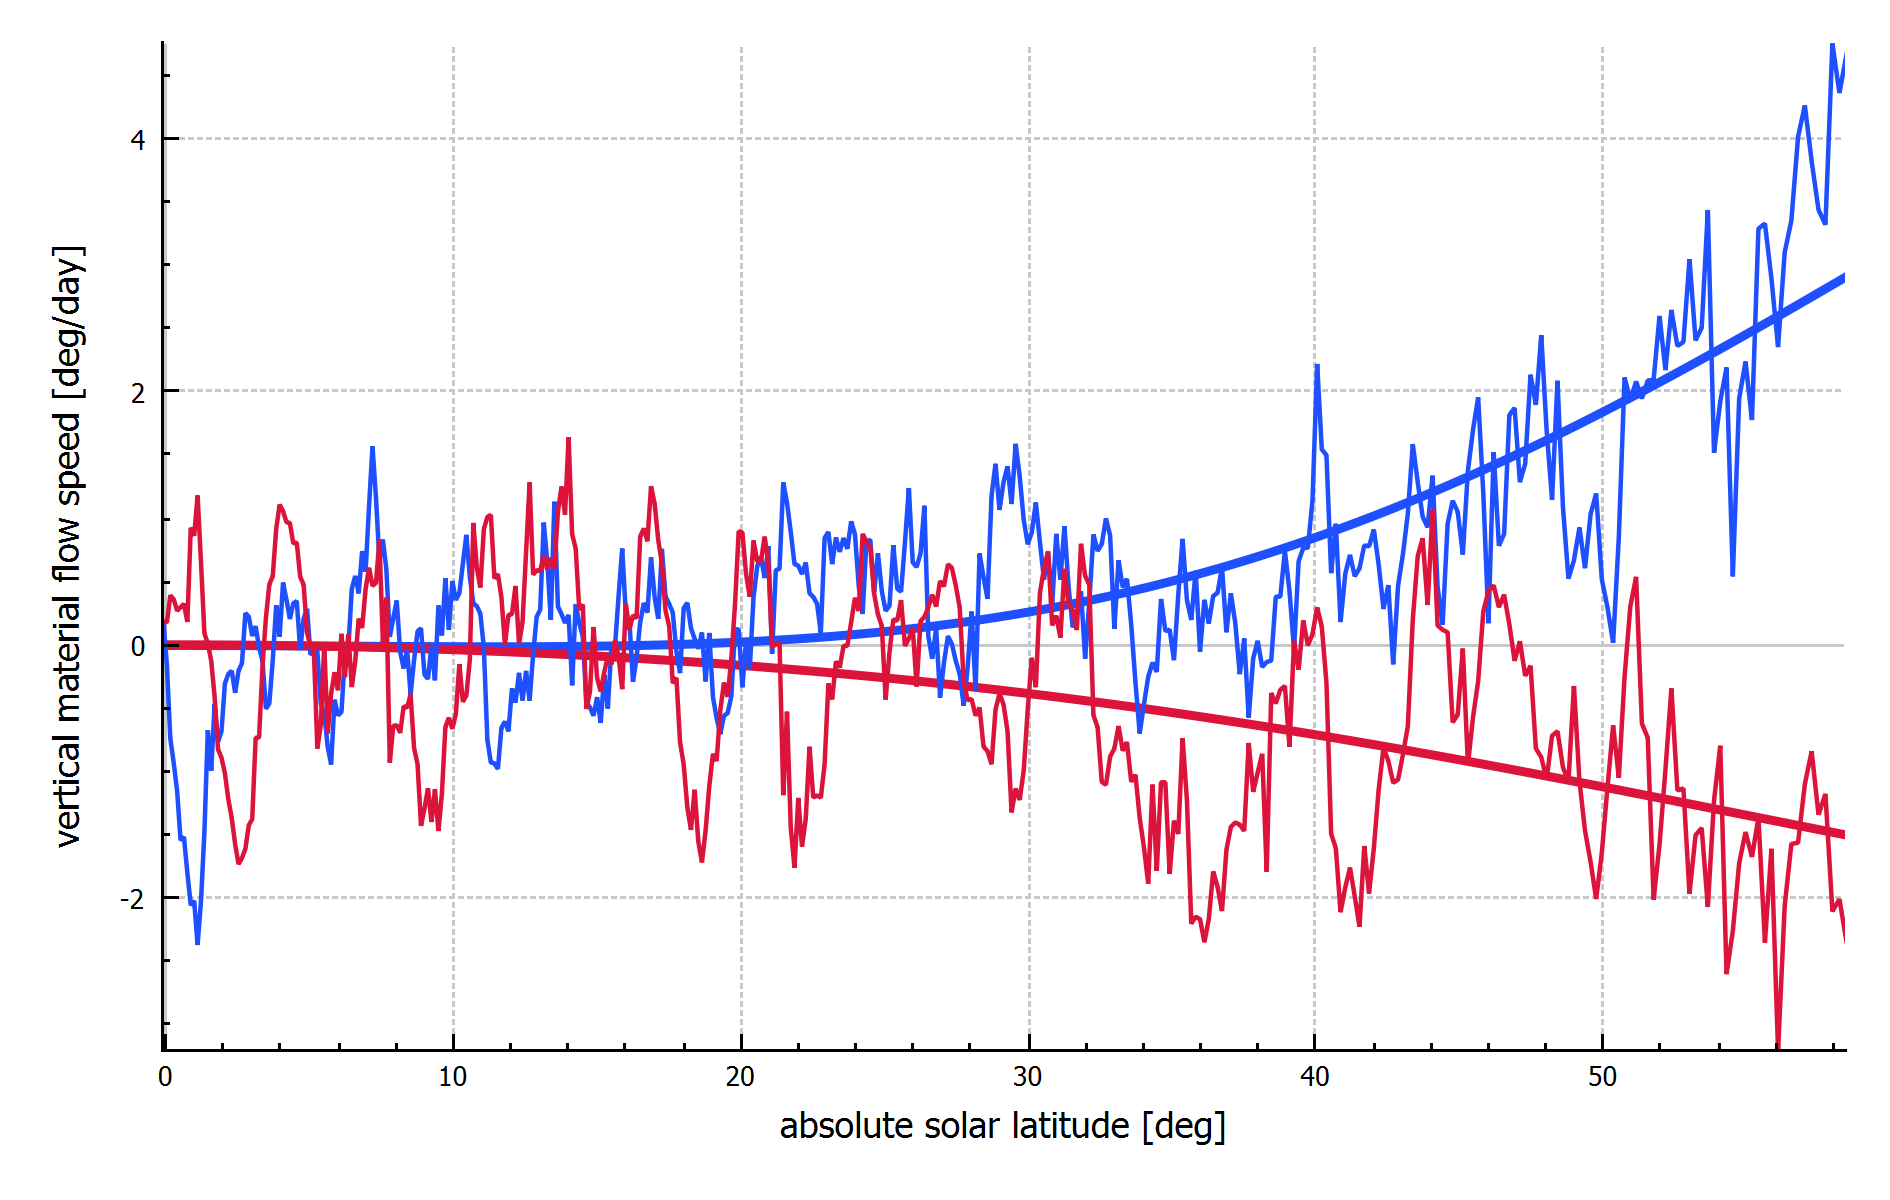
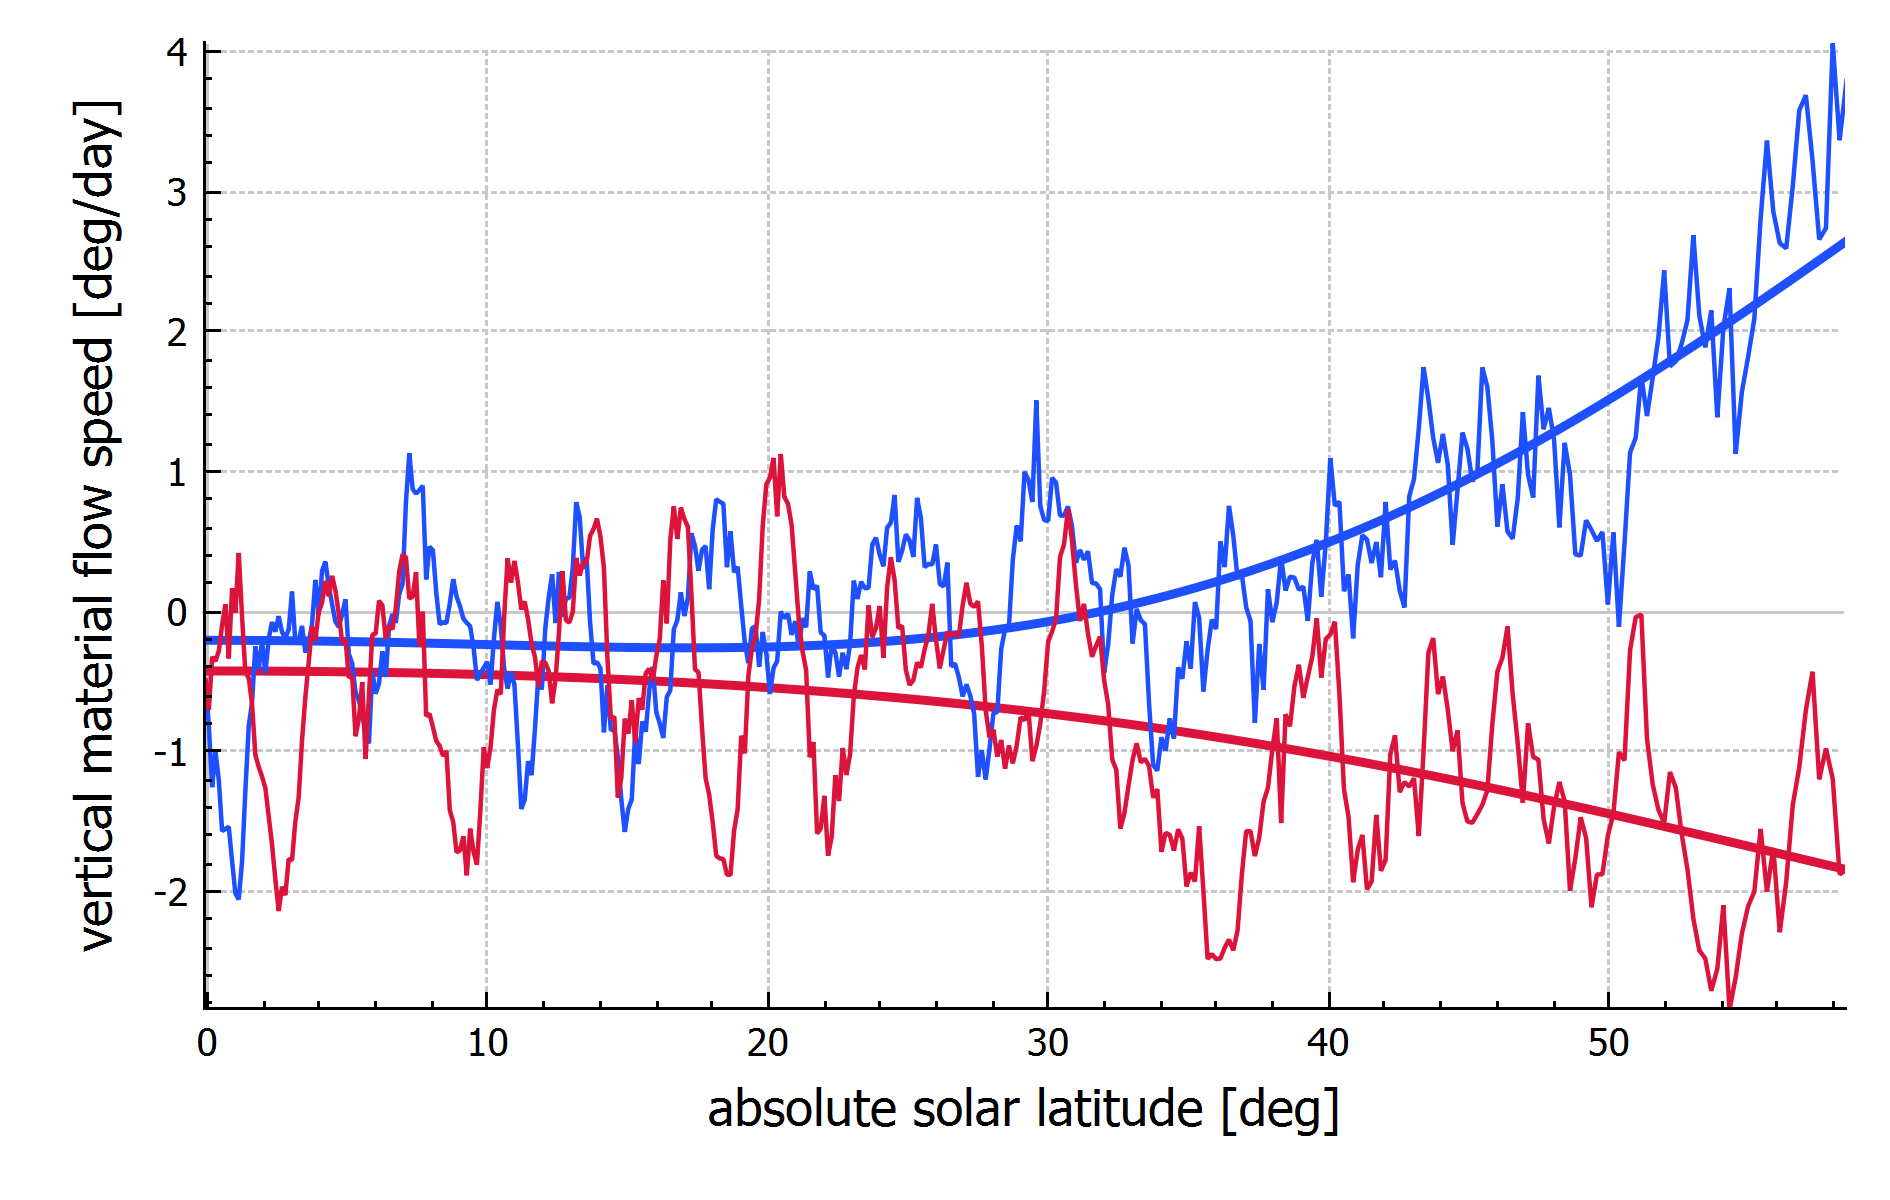
colors & fonts

diff --git a/Zdeny_PhD_Shenanigans/Astrophysics/diffrotResults.h b/Zdeny_PhD_Shenanigans/Astrophysics/diffrotResults.h
@@ -29,28 +29,24 @@ public:
 		// ======================================================== PLOTS ========================================================
 
 		// diffrot profiles
-		Plot1D::plot( SourceThetasavg, std::vector<std::vector<double>> {polyfit( SourceThetasavg, SourceOmegasXavg, 2 ), SourceOmegasXavg, PredicXs[0], PredicXs[1]}, "diffrot profile X", "solar latitude [deg]", "horizontal material flow speed [deg/day]", std::vector<std::string> {"polyfit2", "average", "Derek A. Lamb (2017)", "Howard et al. (1983)"}, std::vector<QPen> { QPen( Plot::red, 3 ), QPen( Plot::blue, 1.5 ), QPen( Plot::orange, 2 ), QPen( Plot::magenta, 2 )}, saveDir + "1DXs" + to_string( SourceStride ) + ".png" );
-		Plot1D::plot( SourceThetasavg, std::vector<std::vector<double>> {polyfit( SourceThetasavg, SourceOmegasYavg, 3 ), SourceOmegasYavg }, "diffrot profile Y", "solar latitude [deg]", "vertical material flow speed [deg/day]", std::vector<std::string> {"polyfit3", "average" }, std::vector<QPen> { QPen( Plot::red, 3 ), QPen( Plot::blue, 1.5 )}, saveDir + "1DYs" + to_string( SourceStride ) + ".png" ); //rgb(119, 136, 153)
+		Plot1D::plot( SourceThetasavg, std::vector<std::vector<double>> {polyfit( SourceThetasavg, SourceOmegasXavg, 2 ), SourceOmegasXavg, PredicXs[0], PredicXs[1]}, "diffrot profile X", "solar latitude [deg]", "horizontal material flow speed [deg/day]", std::vector<std::string> {"polyfit2", "average", "Derek A. Lamb (2017)", "Howard et al. (1983)"}, std::vector<QPen> { QPen( Plot::black, 3 ), QPen( Plot::green, 1.5 ), QPen( Plot::blue, 2 ), QPen( Plot::red, 2 )}, saveDir + "1DXs" + to_string( SourceStride ) + ".png" );
+		Plot1D::plot( SourceThetasavg, std::vector<std::vector<double>> {polyfit( SourceThetasavg, SourceOmegasYavg, 3 ), SourceOmegasYavg }, "diffrot profile Y", "solar latitude [deg]", "vertical material flow speed [deg/day]", std::vector<std::string> {"polyfit3", "average" }, std::vector<QPen> { QPen( Plot::black, 3 ), QPen( Plot::green, 1.5 )}, saveDir + "1DYs" + to_string( SourceStride ) + ".png" ); //rgb(119, 136, 153)
 
 		// diffrot profiles NS
-		Plot1D::plot( ThetasNS, std::vector<std::vector<double>> {sin2sin4fit( toRadians( ThetasNS ), OmegasXavgN ), sin2sin4fit( toRadians( ThetasNS ), OmegasXavgS ), OmegasXavgN, OmegasXavgS, PredicXsNS[0], PredicXsNS[1]}, "diffrot profile NS X", "absolute solar latitude [deg]", "horizontal material flow speed [deg/day]", std::vector<std::string> {"trigfit North", "trigfit South", "average North", "average South", "Derek A. Lamb (2017)", "Howard et al. (1983)" }, std::vector<QPen> { QPen( Plot::blue, 3 ), QPen( Plot::black, 3 ), QPen( Plot::blue, 1.5 ), QPen( Plot::black, 1.5 ), QPen( Plot::orange, 2 ), QPen( Plot::magenta, 2 )}, saveDir + "1DNSXs" + to_string( SourceStride ) + ".png" );
-		Plot1D::plot( ThetasNS, std::vector<std::vector<double>> {sin2sin4fit( toRadians( ThetasNS ), OmegasYavgN ), sin2sin4fit( toRadians( ThetasNS ), OmegasYavgS ), OmegasYavgN, OmegasYavgS}, "diffrot profile NS Y", "absolute solar latitude [deg]", "vertical material flow speed [deg/day]", std::vector<std::string> {"trigfit North", "trigfit South", "average North", "average South" }, std::vector<QPen> { QPen( Plot::blue, 3 ), QPen( Plot::black, 3 ), QPen( Plot::blue, 1.5 ), QPen( Plot::black, 1.5 )}, saveDir + "1DNSYs" + to_string( SourceStride ) + ".png" );
-
-		// diffrot profiles NS cut
-		Plot1D::plot( ThetasNScut, std::vector<std::vector<double>> {sin2sin4fit( toRadians( ThetasNScut ), OmegasXavgNcut ), sin2sin4fit( toRadians( ThetasNScut ), OmegasXavgScut ), OmegasXavgNcut, OmegasXavgScut, PredicXsNScut[0], PredicXsNScut[1]}, "diffrot profile NS cut X", "absolute solar latitude [deg]", "horizontal material flow speed [deg/day]", std::vector<std::string> {"trigfit North", "trigfit South", "average North", "average South", "Derek A. Lamb (2017)", "Howard et al. (1983)" }, std::vector<QPen> { QPen( Plot::blue, 3 ), QPen( Plot::black, 3 ), QPen( Plot::blue, 1.5 ), QPen( Plot::black, 1.5 ), QPen( Plot::orange, 2 ), QPen( Plot::magenta, 2 )}, saveDir + "1DNScXs" + to_string( SourceStride ) + ".png" );
-		Plot1D::plot( ThetasNScut, std::vector<std::vector<double>> {sin2sin4fit( toRadians( ThetasNScut ), OmegasYavgNcut ), sin2sin4fit( toRadians( ThetasNScut ), OmegasYavgScut ), OmegasYavgNcut, OmegasYavgScut}, "diffrot profile NS cut Y", "absolute solar latitude [deg]", "absolute vertical material flow speed [deg/day]", std::vector<std::string> {"trigfit North", "trigfit South", "average North", "average South" }, std::vector<QPen> { QPen( Plot::blue, 3 ), QPen( Plot::black, 3 ), QPen( Plot::blue, 1.5 ), QPen( Plot::black, 1.5 )}, saveDir + "1DNScYs" + to_string( SourceStride ) + ".png" );
+		Plot1D::plot( ThetasNS, std::vector<std::vector<double>> {sin2sin4fit( toRadians( ThetasNS ), OmegasXavgN ), sin2sin4fit( toRadians( ThetasNS ), OmegasXavgS ), OmegasXavgN, OmegasXavgS, PredicXsNS[0], PredicXsNS[1]}, "diffrot profile NS X", "absolute solar latitude [deg]", "horizontal material flow speed [deg/day]", std::vector<std::string> {"trigfit North", "trigfit South", "average North", "average South", "Derek A. Lamb (2017)", "Howard et al. (1983)" }, std::vector<QPen> { QPen( Plot::blue, 3 ), QPen( Plot::red, 3 ), QPen( Plot::blue, 1.5 ), QPen( Plot::red, 1.5 ), QPen( Plot::green, 2 ), QPen( Plot::black, 2 )}, saveDir + "1DNSXs" + to_string( SourceStride ) + ".png" );
+		Plot1D::plot( ThetasNS, std::vector<std::vector<double>> {sin2sin4fit( toRadians( ThetasNS ), OmegasYavgN ), sin2sin4fit( toRadians( ThetasNS ), OmegasYavgS ), OmegasYavgN, OmegasYavgS}, "diffrot profile NS Y", "absolute solar latitude [deg]", "vertical material flow speed [deg/day]", std::vector<std::string> {"trigfit North", "trigfit South", "average North", "average South" }, std::vector<QPen> { QPen( Plot::blue, 3 ), QPen( Plot::red, 3 ), QPen( Plot::blue, 1.5 ), QPen( Plot::red, 1.5 )}, saveDir + "1DNSYs" + to_string( SourceStride ) + ".png" );
 
 		// shifts profiles
-		Plot1D::plot( SourceThetasavg, std::vector<std::vector<double>> {polyfit( SourceThetasavg, SourceShiftsXavg, 2 ), SourceShiftsXavg, ShiftsXErrorsBot, ShiftsXErrorsTop}, "shifts profile X", "solar latitude [deg]", "horizontal image shift [px]", std::vector<std::string> {"polyfit2", "average", "average - stdev", "average + stdev"}, std::vector<QPen> { QPen( Plot::red, 3 ), QPen( Plot::blue, 1.5 ), QPen( Plot::orange, 0.75 ), QPen( Plot::magenta, 0.75 )}, saveDir + "1DsXs" + to_string( SourceStride ) + ".png" );
-		Plot1D::plot( SourceThetasavg, std::vector<std::vector<double>> {polyfit( SourceThetasavg, SourceShiftsYavg, 3 ), SourceShiftsYavg, ShiftsYErrorsBot, ShiftsYErrorsTop}, "shifts profile Y", "solar latitude [deg]", "vertical image shift [px]", std::vector<std::string> {"polyfit3", "average", "average - stdev", "average + stdev"}, std::vector<QPen> { QPen( Plot::red, 3 ), QPen( Plot::blue, 1.5 ), QPen( Plot::orange, 0.75 ), QPen( Plot::magenta, 0.75 )}, saveDir + "1DsYs" + to_string( SourceStride ) + ".png" );
+		Plot1D::plot( SourceThetasavg, std::vector<std::vector<double>> {polyfit( SourceThetasavg, SourceShiftsXavg, 2 ), SourceShiftsXavg, ShiftsXErrorsBot, ShiftsXErrorsTop}, "shifts profile X", "solar latitude [deg]", "horizontal image shift [px]", std::vector<std::string> {"polyfit2", "average", "average - stdev", "average + stdev"}, std::vector<QPen> { QPen( Plot::black, 3 ), QPen( Plot::green, 1.5 ), QPen( Plot::blue, 0.75 ), QPen( Plot::red, 0.75 )}, saveDir + "1DsXs" + to_string( SourceStride ) + ".png" );
+		Plot1D::plot( SourceThetasavg, std::vector<std::vector<double>> {polyfit( SourceThetasavg, SourceShiftsYavg, 3 ), SourceShiftsYavg, ShiftsYErrorsBot, ShiftsYErrorsTop}, "shifts profile Y", "solar latitude [deg]", "vertical image shift [px]", std::vector<std::string> {"polyfit3", "average", "average - stdev", "average + stdev"}, std::vector<QPen> { QPen( Plot::black, 3 ), QPen( Plot::green, 1.5 ), QPen( Plot::blue, 0.75 ), QPen( Plot::red, 0.75 )}, saveDir + "1DsYs" + to_string( SourceStride ) + ".png" );
 
-		// flows
-		Plot2D::plot( applyQuantile( FlowX, quanBot, quanTop ), "diffrot flow X", "time [days]", "solar latitude [deg]", "horizontal material flow speed [deg/day]", StartTime, EndTime, StartTheta, EndTheta, colRowRatio, saveDir + "2DXm" + to_string( medianSize ) + "s" + to_string( SourceStride ) + ".png" );
-		Plot2D::plot( applyQuantile( FlowY, quanBot, quanTop ), "diffrot flow Y", "time [days]", "solar latitude [deg]", "vertical material flow speed [deg/day]", StartTime, EndTime, StartTheta, EndTheta, colRowRatio, saveDir + "2DYm" + to_string( medianSize ) + "s" + to_string( SourceStride ) + ".png" );
+		// flows ratio1
+		Plot2D::plot( applyQuantile( FlowX, quanBot, quanTop ), "diffrot flow X", "time [days]", "solar latitude [deg]", "horizontal material flow speed [deg/day]", StartTime, EndTime, StartTheta, EndTheta, colRowRatio1, saveDir + "2DXm" + to_string( medianSize ) + "r1s" + to_string( SourceStride ) + ".png" );
+		Plot2D::plot( applyQuantile( FlowY, quanBot, quanTop ), "diffrot flow Y", "time [days]", "solar latitude [deg]", "vertical material flow speed [deg/day]", StartTime, EndTime, StartTheta, EndTheta, colRowRatio1, saveDir + "2DYm" + to_string( medianSize ) + "r1s" + to_string( SourceStride ) + ".png" );
 
-		// shifts stdevs/errors
-		//Plot1D::plot( SourceThetasavg, ShiftsXErrors, "shifts X errors", "solar latitude [deg]", "horizontal image shift stdev[px]", std::vector<QPen> { QPen( QColor(20,20,20), 2, Qt::SolidLine)}, saveDir + "1DeXs" + to_string( SourceStride ) + ".png" );
-		//Plot1D::plot( SourceThetasavg, ShiftsYErrors, "shifts Y errors", "solar latitude [deg]", "vertical image shift stdev[px]", std::vector<QPen> { QPen( QColor(20,20,20), 2, Qt::SolidLine)}, saveDir + "1DeYs" + to_string( SourceStride ) + ".png" );
+		// flows ratio2
+		Plot2D::plot( applyQuantile( FlowX, quanBot, quanTop ), "diffrot flow X r", "time [days]", "solar latitude [deg]", "horizontal material flow speed [deg/day]", StartTime, EndTime, StartTheta, EndTheta, colRowRatio2, saveDir + "2DXm" + to_string( medianSize ) + "r2s" + to_string( SourceStride ) + ".png" );
+		Plot2D::plot( applyQuantile( FlowY, quanBot, quanTop ), "diffrot flow Y r", "time [days]", "solar latitude [deg]", "vertical material flow speed [deg/day]", StartTime, EndTime, StartTheta, EndTheta, colRowRatio2, saveDir + "2DYm" + to_string( medianSize ) + "r2s" + to_string( SourceStride ) + ".png" );
 	}
 
 	void SetData2D( const std::vector<std::vector<double>> &image, const std::vector<std::vector<double>> &flowX, const std::vector<std::vector<double>> &flowY, const std::vector<std::vector<double>> &shiftsX, const std::vector<std::vector<double>> &shiftsY )
@@ -100,7 +96,8 @@ private:
 	Mat FlowM;
 	Mat FlowP;
 	std::string saveDir;
-	static constexpr double colRowRatio = 2;
+	static constexpr double colRowRatio1 = 2;
+	static constexpr double colRowRatio2 = 1.5;
 	static constexpr int predicCnt = 2;
 	std::vector<std::vector<double>> PredicXs;
 	std::vector<double> ShiftsXErrors;
@@ -110,17 +107,11 @@ private:
 	std::vector<double> ShiftsYErrorsBot;
 	std::vector<double> ShiftsYErrorsTop;
 	std::vector<std::vector<double>> PredicXsNS;
-	std::vector<std::vector<double>> PredicXsNScut;
 	std::vector<double> ThetasNS;
-	std::vector<double> ThetasNScut;
 	std::vector<double> OmegasXavgN;
-	std::vector<double> OmegasXavgNcut;
 	std::vector<double> OmegasXavgS;
-	std::vector<double> OmegasXavgScut;
 	std::vector<double> OmegasYavgN;
-	std::vector<double> OmegasYavgNcut;
 	std::vector<double> OmegasYavgS;
-	std::vector<double> OmegasYavgScut;
 	double StartTime;
 	double EndTime;
 	double StartTheta;
@@ -183,7 +174,6 @@ private:
 	void CalculateNS()
 	{
 		PredicXsNS.resize( predicCnt );
-		PredicXsNScut.resize( predicCnt );
 
 		int zeroidx = 0;
 		for ( int i = 0; i < SourceThetasavg.size() - 1; i++ )
@@ -208,26 +198,6 @@ private:
 		OmegasYavgS = std::vector<double>( SourceOmegasYavg.begin() + zeroidx, SourceOmegasYavg.begin() + 2 * zeroidx + 1 );
 		std::reverse( OmegasXavgS.begin(), OmegasXavgS.end() );
 		std::reverse( OmegasYavgS.begin(), OmegasYavgS.end() );
-
-		//cut off stuff near the equator for both hemispheres for a (potentially?) nicer polyfit
-		double offs = 10;//deg
-		int offsidx = 0;
-		for ( int i = 0; i < ThetasNS.size() - 1; i++ )
-		{
-			if ( ThetasNS[i] < offs )
-			{
-				offsidx = i;
-				break;
-			}
-		}
-
-		ThetasNScut = std::vector<double>( ThetasNS.begin(), ThetasNS.begin() + offsidx );
-		PredicXsNScut[0] = std::vector<double>( PredicXsNS[0].begin(), PredicXsNS[0].begin() + offsidx );
-		PredicXsNScut[1] = std::vector<double>( PredicXsNS[1].begin(), PredicXsNS[1].begin() + offsidx );
-		OmegasXavgNcut = std::vector<double>( OmegasXavgN.begin(), OmegasXavgN.begin() + offsidx );
-		OmegasYavgNcut = std::vector<double>( OmegasYavgN.begin(), OmegasYavgN.begin() + offsidx );
-		OmegasXavgScut = std::vector<double>( OmegasXavgS.begin(), OmegasXavgS.begin() + offsidx );
-		OmegasYavgScut = std::vector<double>( OmegasYavgS.begin(), OmegasYavgS.begin() + offsidx );
 	}
 
 	void CalculateFitCoeffs()

diff --git a/Zdeny_PhD_Shenanigans/Plot/Plot1D.cpp b/Zdeny_PhD_Shenanigans/Plot/Plot1D.cpp
@@ -115,7 +115,7 @@ void Plot1D::SetupGraph( WindowPlot *windowPlot, int ycnt, int y1cnt, int y2cnt,
 	windowPlot->ui.widget->xAxis->setLabel( QString::fromStdString( xlabel ) );
 	windowPlot->ui.widget->yAxis->setLabel( QString::fromStdString( y1label ) );
 	windowPlot->ui.widget->yAxis2->setLabel( QString::fromStdString( y2label ) );
-	windowPlot->ui.widget->legend->setVisible( ycnt > 1 );
+	//windowPlot->ui.widget->legend->setVisible( ycnt > 1 );
 	windowPlot->ui.widget->axisRect()->insetLayout()->setInsetAlignment( 0, Qt::AlignBottom | Qt::AlignRight );
 	for ( int i = 0; i < ycnt; i++ )
 	{

diff --git a/Zdeny_PhD_Shenanigans/Plot/Plot.cpp b/Zdeny_PhD_Shenanigans/Plot/Plot.cpp
@@ -4,11 +4,11 @@
 
 std::map<std::string, WindowPlot *> Plot::plots;
 
-QFont Plot::fontTicks( "Newyork", 9 );
-QFont Plot::fontLabels( "Newyork", 12 );
+QFont Plot::fontTicks( "Newyork", 13 );//9
+QFont Plot::fontLabels( "Newyork", 17 );//12
 std::vector<QPen> Plot::emptyvectpen{};
 QColor Plot::black( 50, 50, 50 );
-QColor Plot::green( 0.4660 * 255, 0.6740 * 255, 0.1880 * 255 );
+QColor Plot::green( 119, 182, 48 );
 QColor Plot::blue( 30, 80, 255 );
 QColor Plot::red( 220, 20, 60 );
 QColor Plot::orange( 255, 165, 0 );
